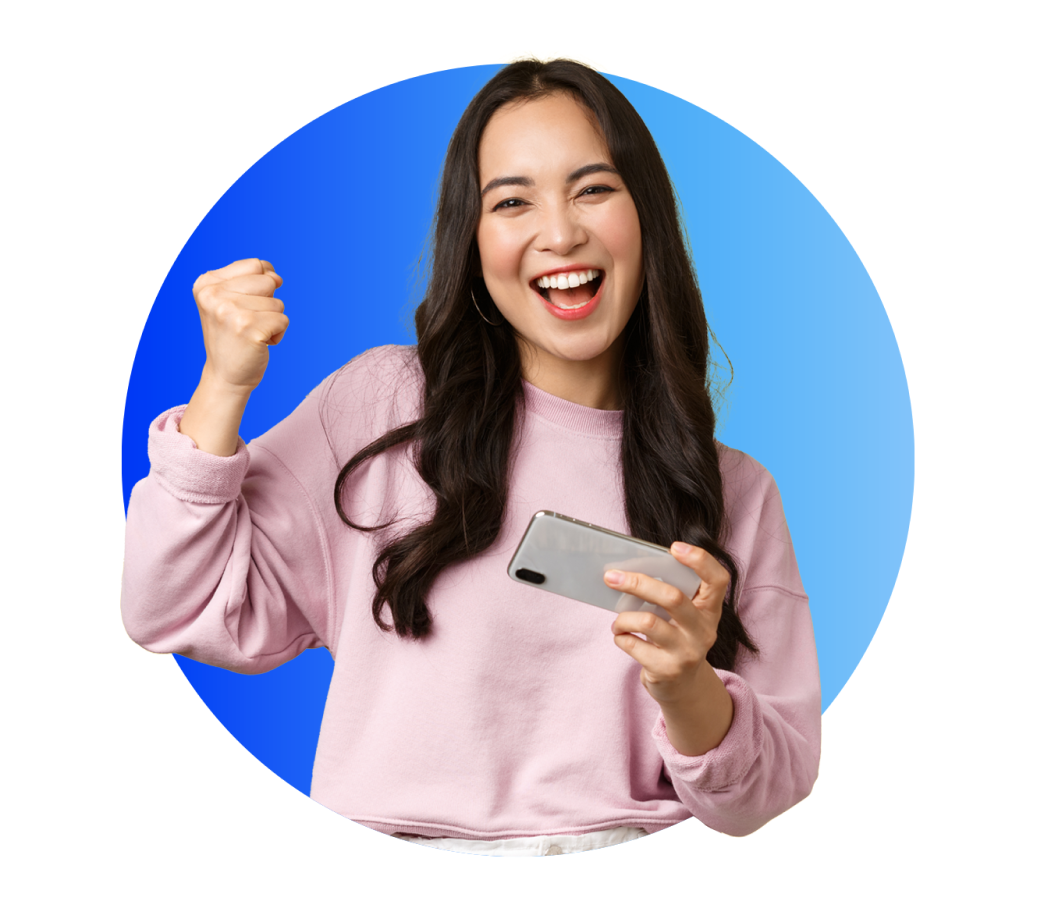
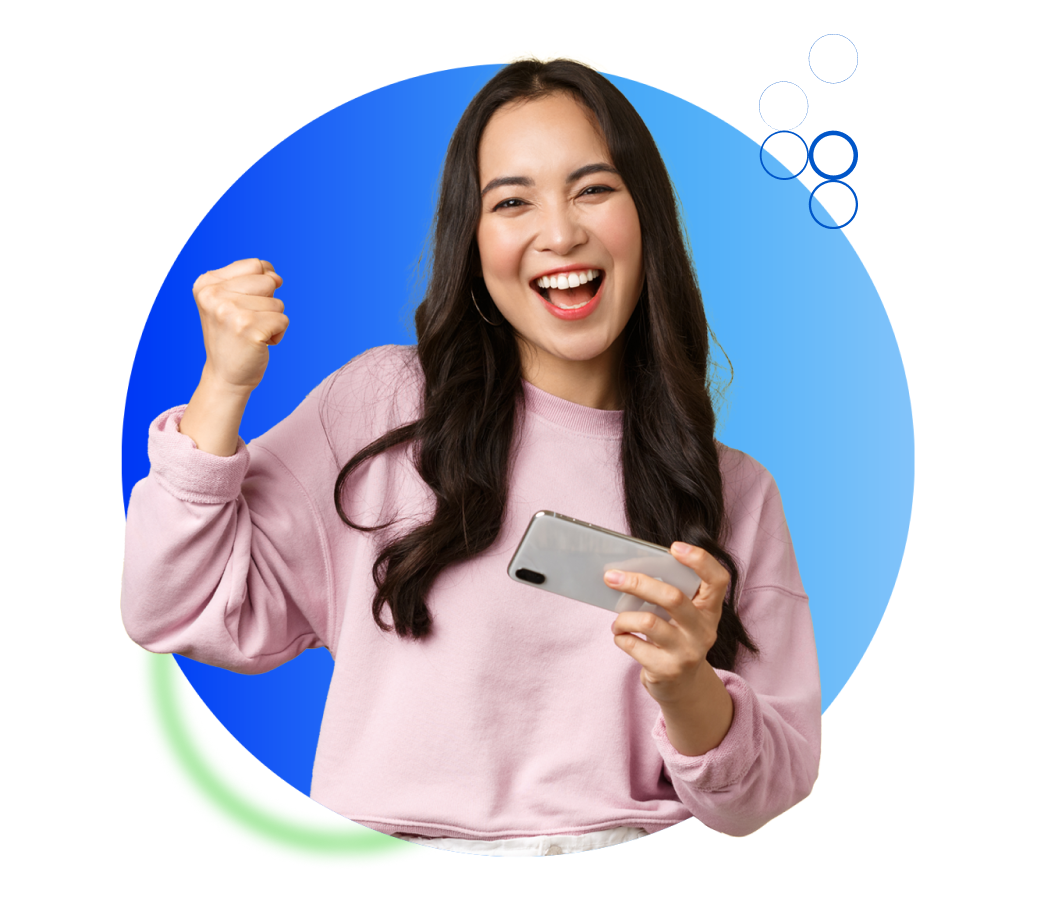
initial commit

Changed region(s): [[0.1234, 0.6992, 0.4012, 0.9425], [0.7406, 0.1216, 0.8332, 0.2432]]

diff --git a/index.html b/index.html
@@ -37,22 +37,135 @@
     </div>
     <div class="container-fluid py-lg-5">
         <div class="row my-lg-5">
-            <div class="col-lg-7">
+            <div class="col-lg-6">
                 <img class="img-fluid" src="images/home-brief-image.png" alt="">
             </div>
-            <div class="col-lg-5">
-                <h1 class="text-black">
+            <div class="col-lg-6">
+                <h1 class="text-black mb-lg-5">
                     Forever with You
                 </h1>
-                <div class="row">
-                    <div class="col-lg-4">
-                        <img class="img-fluid" src="images/icon_ (1).png" alt="">
-                    </div>
-                    <div class="col-lg-8">
-                        <h5 class="text-black">
+                <div class="d-inline-flex my-lg-3">
+                        <img class="mr-lg-3 fit-contain" src="images/icon_ (1).png" alt="">
+                        <div class="content">
+                        <h6 class="text-black font-weight-bold mb-lg-3">
                             Customer Oriented Service
-                        </h5>
-                        <p class=""></p>
+                        </h6>
+                        <p class="text-black">
+                            We provide 24/7 customer service support that can help provide timely solutions to your IT issues.
+                        </p>
+                        </div>
+                </div>
+                <div class="d-inline-flex my-lg-3">
+                        <img class="mr-lg-3 fit-contain" src="images/icon_ (1).png" alt="">
+                        <div class="content">
+                        <h6 class="text-black font-weight-bold mb-lg-3">
+                            Customer Oriented Service
+                        </h6>
+                        <p class="text-black">
+                            We provide 24/7 customer service support that can help provide timely solutions to your IT issues.
+                        </p>
+                        </div>
+                </div>
+                <div class="d-inline-flex my-lg-3">
+                        <img class="mr-lg-3 fit-contain" src="images/icon_ (1).png" alt="">
+                        <div class="content">
+                        <h6 class="text-black font-weight-bold mb-lg-3">
+                            Customer Oriented Service
+                        </h6>
+                        <p class="text-black">
+                            We provide 24/7 customer service support that can help provide timely solutions to your IT issues.
+                        </p>
+                        </div>
+                </div>
+                <div class="d-inline-flex my-lg-3">
+                        <img class="mr-lg-3 fit-contain" src="images/icon_ (1).png" alt="">
+                        <div class="content">
+                        <h6 class="text-black font-weight-bold mb-lg-3">
+                            Customer Oriented Service
+                        </h6>
+                        <p class="text-black">
+                            We provide 24/7 customer service support that can help provide timely solutions to your IT issues.
+                        </p>
+                        </div>
+                </div>
+            </div>
+        </div>
+    </div>
+    <div class="container-fluid">
+        <div class="row">
+            <div class="col-lg-8 px-lg-0">
+                <img class="img-fluid" src="images/home-coverage.png" alt="">
+            </div>
+            <div class="col-lg-4 pl-lg-5 pt-lg-5 v-shadow">
+                <h1 class="text-black my-lg-5 pt-lg-5">
+                    Our<br>
+                    Coverage
+                </h1>
+                <p class="text-black mr-lg-5">
+                    We offer value-added services in the form of one-stop and end-to-end managed ICT solutions covering all areas in Indonesia.
+                </p>
+            </div>
+        </div>
+    </div> 
+    <div class="container-fluid network">
+        <div class="row">
+            <div class="col-lg-12 px-lg-0">
+                <img class="img-fluid" src="images/home-network.jpg" alt="">
+                <div class="content">
+                    <h1 class="text-white mb-lg-5">
+                        Leave It To<br>
+                        The Experts
+                    </h1>
+                    <p class="text-white mb-lg-5">
+                        Improve business efficiency and reach greater opportunities with Netvolve’s IT expertise and ICT solutions.
+                    </p>
+                    <a href="#" class="button-blue">
+                        Learn More
+                    </a>
+                </div>
+            </div>
+        </div>
+    </div>
+    <div class="container-fluid">
+        <div class="row my-lg-5">
+            <div class="col-lg-12 px-lg-0">
+                <h1 class="text-black my-lg-5 text-center">
+                    Our Internet Service Product
+                </h1>
+                <div class="home-isp owl-theme py-lg-5">
+                    <div class="item">
+                        <div class="wrap">
+                        <img src="images/home-isp.jpg" alt="">
+                            <div class="content">
+                                <h6 class="text-white my-lg-5">
+                                    Connectivity Service
+                                </h6>
+                                <p class="text-white my-lg-5 pb-lg-3">
+                                    IPLC & IEPL
+                                    <br><br>
+                                    Metro - E
+                                    <br><br>
+                                    L3 Services
+                                    <br><br>
+                                    NetSat
+                                    <br><br>
+                                </p>
+                                <p class="text-white py-lg-5 w-75">
+                                    Lorem ipsum dolor sit amet, consectetur adipiscing elit. Duis vel risus lacus. Suspendisse venenatis nisl sed tempor pellentesque.
+                                </p>
+                                <div class="button-pos">
+                                    <a href="#" class="button-white">
+                                        View
+                                    </a>
+                                </div>
+                            </div>
+                        </div>
+                    </div>
+                    <div class="item">
+                        <img src="images/home-isp.jpg" alt="">
+                    </div>
+                    <div class="item">
+                        <img src="images/home-isp.jpg" alt="">
                     </div>
                 </div>
             </div>

diff --git a/css/style.css b/css/style.css
@@ -13,10 +13,10 @@ body{
     src: url(NeueMachina-Regular.otf) format("truetype");
 }
 .font-objects{
-    font-family: "NeueMachina Regular";
+    font-family: "ObjectSans Regular";
 }
 .font-neue{
-    font-family: "Neu";
+    font-family: "NeueMachina Regular";
 }
 body{
     transition: all .3s;
@@ -47,6 +47,7 @@ a:hover{
 h1, h2, h3, h4, h5, h6, a {font-family: "NeueMachina Regular"; letter-spacing: 0.3px;}
 p{
     font-family: "ObjectSans Regular";
+    font-size: 0.8rem;
 }
 .text-gray{
     color: #666666;
@@ -58,6 +59,9 @@ p{
 .fluid-100vh{
     object-fit: cover;
     height: 100vh;
+}
+.fit-contain{
+    object-fit: contain;
 }
 /* Pages */
 .banner-top{
@@ -78,12 +82,45 @@ p{
     left: 20%;
     transform: translate(-50% , -50%);
 }
+.network .content{
+    position: absolute;
+    top: 50%;
+    z-index: 2;
+    width: 25%;
+    left: 20%;
+    transform: translate(-50% , -50%);
+}
+.home-isp .wrap{
+    width: 100%;
+}
+.home-isp .content{
+    position: absolute;
+    left: 10%;
+    top: 50%;
+    transform: translate(-50%, -50%);
+}
+.home-isp .content .button-pos{
+    position: absolute;
+    bottom: 15%;
+    right: 0;
+}
 /* Components */
 /* Button and Links */
 .button-white{
     background-color: #fff;
-    border-radius: 20px;
+    border-radius: 10px;
     padding: 12px 46px;
+}
+.button-blue{
+    background-color: #0056C9;
+    border-radius: 10px;
+    padding: 12px 46px;
+    color: #fff;
+}
+.v-shadow{
+    -webkit-box-shadow: 0px -5px 15px -10px rgba(0,0,0,0.58);
+    -moz-box-shadow: 0px -5px 15px -10px rgba(0,0,0,0.4);
+    box-shadow: 0px -5px 15px -10px rgba(0,0,0,0.4);
 }
 
 

diff --git a/js/app.js b/js/app.js
@@ -172,12 +172,9 @@ $('.carousel-csr').addClass('owl-carousel owl-theme').owlCarousel({
    }
  }
 })
-$('.carousel-mobile-projects-list').addClass('owl-carousel owl-theme').owlCarousel({
-  loop:false,
-  animateOut: 'fadeOut',
-  animateIn: 'fadeIn',
+$('.home-isp').addClass('owl-carousel owl-theme').owlCarousel({
+  loop: false,
   navText: ["<img src='images/chevron-left-square-08.png'>","<img src='images/chevron-right-square-08.png'>"],
-  items:2,
   responsive:{
    0: {
      items: 1,
@@ -192,9 +189,12 @@ $('.carousel-mobile-projects-list').addClass('owl-carousel owl-theme').owlCarous
      nav: false
    },
    1000: {
-     stagePadding: 40,
-     items: 2,
-     dots: false
+     stagePadding: 200,
+     margin: 60,
+     items: 1,
+     dots: false,
+     loop: true,
+     nav: true
    }
  }
 })
